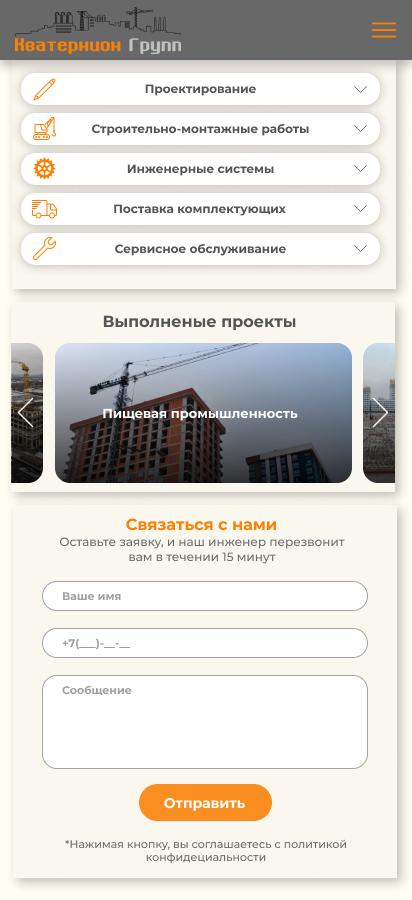
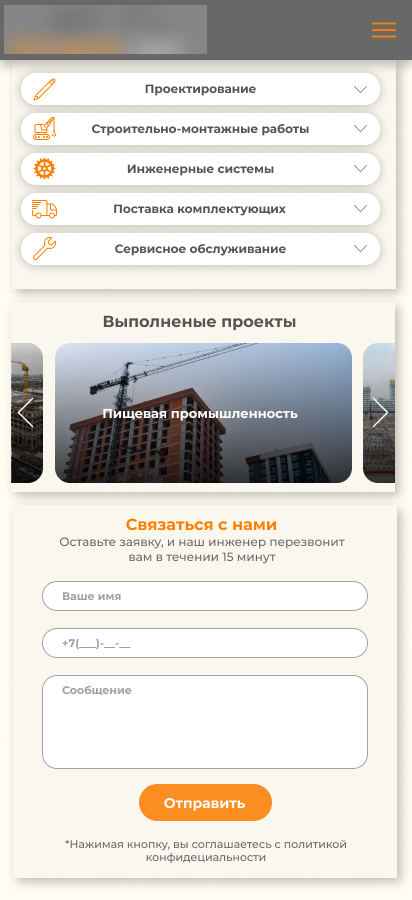
Add portfolio files and Open Graph metadata

Changed region(s): [[0.0, 0.0, 0.5243, 0.0622]]

diff --git a/project-warehouse.html b/project-warehouse.html
@@ -14,7 +14,7 @@
     <!-- Fancybox CSS (модальное окно для просмотра картинок) -->
     <link rel="stylesheet" href="https://cdn.jsdelivr.net/npm/@fancyapps/ui@5.0/dist/fancybox/fancybox.css" />
     <link rel="stylesheet" href="style.css">
-    <link rel="stylesheet" href="project.css"> 
+    <link rel="stylesheet" href="project.css">
 
 </head>
 
@@ -142,7 +142,7 @@
                     </div>
                 </aside>
 
-            </div> 
+            </div>
 
             <!-- СЕКЦИЯ ГАЛЕРЕИ-->
             <section class="project-section project-gallery-section">
@@ -150,73 +150,73 @@
                 <div class="project-gallery">
 
                     <div class="gallery-item">
-                        <a href="images/Снимок экрана (112).png" data-fancybox="gallery"
+                        <a href="images/Авторизация.png" data-fancybox="gallery"
                             data-caption="Форма входа в систему: авторизация пользователей и разграничение прав доступа">
-                            <img src="images/Снимок экрана (112).png" alt="Форма входа в систему">
+                            <img src="images/Авторизация.png" alt="Форма входа в систему">
                         </a>
                         <p class="gallery-caption">Форма входа в систему</p>
                     </div>
 
                     <div class="gallery-item">
-                        <a href="images/Снимок экрана (115).png" data-fancybox="gallery"
+                        <a href="images/Главная (1).png" data-fancybox="gallery"
                             data-caption="Главный дашборд: ключевые показатели и навигация">
-                            <img src="images/Снимок экрана (115).png" alt="Главная панель управления">
+                            <img src="images/Главная (1).png" alt="Главная панель управления">
                         </a>
                         <p class="gallery-caption">Главная панель управления</p>
                     </div>
 
                     <div class="gallery-item">
-                        <a href="images/Снимок экрана (116).png" data-fancybox="gallery"
+                        <a href="images/Учет ТМР.png" data-fancybox="gallery"
                             data-caption="Реестр товарно-материальных ресурсов и остатков">
-                            <img src="images/Снимок экрана (116).png" alt="Раздел учета ТМР">
+                            <img src="images/Учет ТМР.png" alt="Раздел учета ТМР">
                         </a>
                         <p class="gallery-caption">Раздел учета ТМР</p>
                     </div>
 
                     <div class="gallery-item">
-                        <a href="images/Снимок экрана (118).png" data-fancybox="gallery"
+                        <a href="images/Склады.png" data-fancybox="gallery"
                             data-caption="Управление строительными объектами и местами хранения">
-                            <img src="images/Снимок экрана (118).png" alt="Карточки объектов и складов">
+                            <img src="images/Склады.png" alt="Карточки объектов и складов">
                         </a>
                         <p class="gallery-caption">Объекты и склады</p>
                     </div>
 
                     <div class="gallery-item">
-                        <a href="images/Снимок экрана (120).png" data-fancybox="gallery"
+                        <a href="images/Поступление.png" data-fancybox="gallery"
                             data-caption="Журнал поступлений, выдач и внутренних перемещений">
-                            <img src="images/Снимок экрана (120).png" alt="Журнал учета движений ТМР">
+                            <img src="images/Поступление.png" alt="Журнал учета движений ТМР">
                         </a>
                         <p class="gallery-caption">Журнал учета движений ТМР</p>
                     </div>
 
                     <div class="gallery-item">
-                        <a href="images/Снимок экрана (122).png" data-fancybox="gallery"
+                        <a href="images/Аналитика.png" data-fancybox="gallery"
                             data-caption="Аналитика, наглядные диаграммы и отчетность">
-                            <img src="images/Снимок экрана (122).png" alt="Раздел аналитики">
+                            <img src="images/Аналитика.png" alt="Раздел аналитики">
                         </a>
                         <p class="gallery-caption">Раздел аналитики</p>
                     </div>
 
                     <div class="gallery-item">
-                        <a href="images/Снимок экрана (123).png" data-fancybox="gallery"
+                        <a href="images/Пользователи.png" data-fancybox="gallery"
                             data-caption="Администрирование пользователей и ролей">
-                            <img src="images/Снимок экрана (123).png" alt="Список пользователей">
+                            <img src="images/Пользователи.png" alt="Список пользователей">
                         </a>
                         <p class="gallery-caption">Управление пользователями</p>
                     </div>
 
                     <div class="gallery-item">
-                        <a href="images/Снимок экрана (124).png" data-fancybox="gallery"
+                        <a href="images/ЛК.png" data-fancybox="gallery"
                             data-caption="Личный кабинет пользователя и настройки профиля">
-                            <img src="images/Снимок экрана (124).png" alt="Личный кабинет">
+                            <img src="images/ЛК.png" alt="Личный кабинет">
                         </a>
                         <p class="gallery-caption">Личный кабинет</p>
                     </div>
 
                     <div class="gallery-item">
-                        <a href="images/Снимок экрана (125).png" data-fancybox="gallery"
+                        <a href="images/О системе.png" data-fancybox="gallery"
                             data-caption="Информационное окно «О системе»">
-                            <img src="images/Снимок экрана (125).png" alt="О программе">
+                            <img src="images/О системе.png" alt="О программе">
                         </a>
                         <p class="gallery-caption">О системе</p>
                     </div>

diff --git a/index.html b/index.html
@@ -457,13 +457,13 @@
                     <div class="project-preview">
                         <div class="preview-badge">WPF / MS SQL</div>
                         <a href="project-warehouse.html" class="project-preview-link">
-                            <img src="images/Снимок экрана (115).png" alt="Дашборд ИС Складского учета"
+                            <img src="images/Главная (1).png" alt="Дашборд ИС Складского учета"
                                 class="project-preview-img">
                         </a>
                     </div>
                     <div class="project-info">
                         <span class="project-category">Desktop Application / C# &amp; WPF</span>
-                        <h3>ИС Складского Учета «Кватернион Групп»</h3>
+                        <h3>ИС Складского Учета для компании</h3>
                         <p>Десктопная система для автоматизации учета материалов на складе, управления накладными и
                             формирования аналитической отчетности.</p>
 
@@ -551,13 +551,13 @@
                     <div class="project-preview">
                         <div class="preview-badge">Figma / UI/UX Design</div>
                         <a href="kvaternion-mobile.html" class="project-preview-link">
-                            <img src="images/Главная.png" alt="Мобильное приложение Кватерион Групп"
+                            <img src="images/Главная (2).png" alt="Мобильное приложение Кватерион Групп"
                                 class="project-preview-img">
                         </a>
                     </div>
                     <div class="project-info">
                         <span class="project-category">UI/UX Mobile Design &amp; Figma</span>
-                        <h3>Мобильное приложение «Кватерион Групп»</h3>
+                        <h3>Мобильное приложение для компании</h3>
                         <p>Концепт и дизайн мобильного интерфейса для строительной компании: отслеживание статуса
                             договоров в реальном времени, фотоотчеты со строек, калькулятор и каталог услуг.</p>
                         <div class="project-tags">
@@ -586,9 +586,6 @@
                 <div class="social-links">
                     <a href="https://t.me/dia_nka02" target="_blank" class="social-btn">Telegram</a>
                     <a href="https://t.me/DanilTenar" class="social-btn">Telegram менеджера</a>
-                    <a href="https://wa.me/79776677798" class="social-btn">WhatsApp менеджера</a>
-                    <a href="https://max.ru/u/f9LHodD0cOLZGuYuB2yILzCqjNDyl80bAb8Le5J8PWkG5hEd6UIlLgCjIYE"
-                        target="_blank" class="social-btn">Max менеджера</a>
                     <a href="https://github.com/PushkarDiana" target="_blank" class="social-btn">GitHub</a>
                 </div>
 

diff --git a/kvaternion-mobile.html b/kvaternion-mobile.html
@@ -46,7 +46,7 @@
             <!-- Заголовок проекта -->
             <div class="project-page-header">
                 <span class="project-category">UI/UX Mobile Design &amp; Figma / Информационная система</span>
-                <h1 class="project-page-title">Мобильное приложение для клиентов «Кватерион Групп»
+                <h1 class="project-page-title">Мобильное приложение для клиентов компании
                 </h1>
 
                 <div class="project-meta-grid">
@@ -73,7 +73,7 @@
                     <section class="project-section">
                         <h2>Описание проблемы и задачи</h2>
                         <p>
-                            Для строительной компании ООО «Кватерион Групп» потребовалось спроектировать интерфейс
+                            Для строительной компании потребовалось спроектировать интерфейс
                             мобильного приложения, которое позволяет клиентам в реальном времени отслеживать статус
                             выполнения строительных и монтажных работ по договору, просматривать фотоотчеты со
                             строительных площадок и оперативно связываться с инженерным составом.
@@ -135,9 +135,9 @@
                 <div class="project-gallery">
 
                     <div class="gallery-item">
-                        <a href="images/Главная.png" data-fancybox="gallery"
+                        <a href="images/Главная (2).png" data-fancybox="gallery"
                             data-caption="Главный экран приложения: баннер, быстрые действия и каталог услуг">
-                            <img src="images/Главная.png" alt="Главный экран">
+                            <img src="images/Главная (2).png" alt="Главный экран">
                         </a>
                         <p class="gallery-caption">Главный экран</p>
                     </div>
